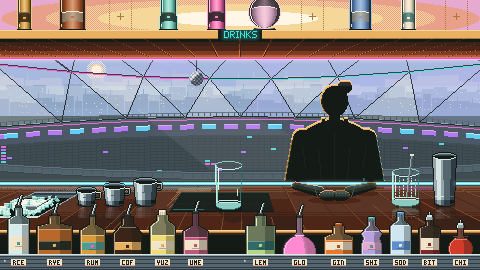
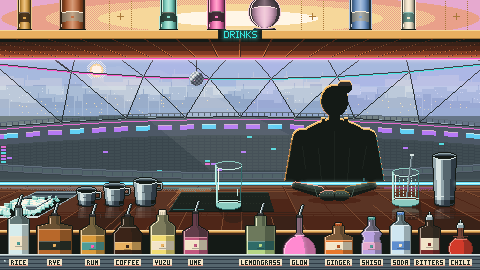
Pour lab: full names, hover cards, stir and shake, the serve line
- the rail's tape labels spell each drink's name in full words; the side
  panel and spectrograph use the bottles' full names, and the panel widens
  to fit the longest one
- pointing at a bottle shows its full name and what it tastes like; cups,
  tools, the ice well and the glass get cards that say what they do
- a lifted tool can pour into the other tool, so a drink can be stirred
  and then shaken (or the reverse); melted ice isn't counted twice, the
  log keeps both, and dash counts travel with the drink
- the fill line is now called the serve line in the game and explained:
  2.5 parts, the smallest drink a guest will take

Claude-Session: https://claude.ai/code/session_01F4MPXAHRjr7E7ERNW3qb1i

Changed region(s): [[0.5, 0.9481, 1.0, 1.0], [0.2188, 0.9481, 0.375, 1.0], [0.0, 0.9481, 0.0625, 1.0]]

diff --git a/tools/pourlab/pour.js b/tools/pourlab/pour.js
@@ -78,6 +78,24 @@ function wrap(s, maxW) {
   return out
 }
 
+// ---------------------------------------------------------------- what each bottle is (shown on hover)
+const CUP_NAME = { cup_quarter: "A quarter", cup_half: "A half", cup_one: "One" }
+const DESC = {
+  rice: "A clean, clear spirit. Strong, with a whisper of sweetness, so everything else shows through.",
+  rye: "Strong rye whiskey with a smoky, peppery edge and a little bitterness.",
+  rum: "Strong and gently sweet, with a faint hint of smoke.",
+  coffee: "Dark and rich: as sweet as it is bitter, with some kick and a roasted edge.",
+  yuzu: "Sharp, bright citrus. Very sour, with a fresh zing.",
+  ume: "Plum ferment: sweet and sour at once, with a slightly bitter finish.",
+  lemongrass: "Fresh, grassy and sweet, with a light tang. Pours slowly.",
+  glow: "Pure sweetness, thick and glowing. A little goes a long way. Pours slowly.",
+  ginger: "Hot ginger: spicy and a little sweet.",
+  shiso: "Fizzy and herbal: fresh, lightly bitter, a little sweet. Bubbles lift the fresh notes.",
+  soda: "Bubbles and no flavor. Makes a drink longer and livelier, and softens everything in it.",
+  bitters: "Very bitter, with a touch of spice. Dashes only: 0.05 parts each, six at most.",
+  chili: "Pure heat. Dashes only: 0.05 parts each, six at most.",
+}
+
 // ---------------------------------------------------------------- where things are
 const railOf = Object.fromEntries(L.rail.map((r) => [r.id, r]))
 const ingOf = Object.fromEntries(L.ingredients.map((g) => [g.id, g]))
@@ -158,7 +176,7 @@ function nextGuest() {
 }
 function serve() {
   if (guest.phase !== "asking") return
-  if (sim.total() < FILL_LINE - 0.05) { sim.say(`Fill the glass to the gold line first (${FILL_LINE} parts).`); return }
+  if (sim.total() < FILL_LINE - 0.05) { sim.say(`Fill the glass to the gold serve line first: ${FILL_LINE} parts is the smallest drink a guest will take.`); return }
   dropHeld()
   if (S.toolMode) sim.putToolDown()
   const t = sim.tasteOf(S.glass), s = score(guest.g, t)
@@ -246,6 +264,7 @@ function targetAt(x, y) {
     if (cup.state === "home" && inBox(x, y, cupBox(cup))) return { kind: "cup", id: cup.id }
     if (cup.state === "active" && !S.held && inBox(x, y, cupBox(cup))) return { kind: "activeCup", id: cup.id }
   }
+  if (!S.held && inBox(x, y, { x: glass.left, y: glass.top, w: glass.w, h: glass.h })) return { kind: "glass" }
   if (!S.held) for (const tool of Object.values(S.tools)) if (tool.state === "home" && y < L.RAIL_TOP - 2 && inBox(x, y, toolBoxOf(tool))) return { kind: "tool", id: tool.id }
   return null
 }
@@ -547,13 +566,13 @@ function contentRows(r, P, y) {
 const TOOL_NAME = { shaker: "THE SHAKER", mixing_glass: "THE STIRRING GLASS" }
 // the left panel shows the vessel you're working with: the glass, or the shaker or stirring glass in your hand
 function drawSidePanel() {
-  const P = { x: 6, y: 44, w: 152 }
   const tool = S.toolMode && S.tools[S.toolMode]
-  // measure first (draw nothing), then draw: the panel's height follows its contents
+  // measure first (draw nothing), then draw: the panel's size follows its contents (wide enough for the longest name)
   const r = tool ? sim.readout(tool.c) : sim.readout()
+  const P = { x: 6, y: 44, w: Math.max(160, ...r.rows.map((row) => 12 + textW(row.name) + 8 + textW(row.dashes ? "6 dashes" : "0.00") + 6)) }
   const hint = wrap(hintText(), P.w - 12)
   const rows = Math.max(1, r.rows.length)
-  const h = tool ? 14 + rows * 9 + 6 + 9 + 30 + 11 + 32 + hint.length * 9 + 4
+  const h = tool ? 14 + rows * 9 + 6 + 9 + 30 + 11 + 48 + hint.length * 9 + 4
     : 14 + rows * 9 + 6 + 9 + (r.ice ? 9 : 0) + 11 + (r.log.length ? 9 : 0) + 17 + hint.length * 9 + 4
   panel(P.x, P.y, P.w, h)
   let y = P.y + 5
@@ -567,6 +586,8 @@ function drawSidePanel() {
     const verb = tool.method === "shake" ? "Shaken" : "Stirred"
     text(tool.c.techT > 0.05 ? `${verb} ${tool.c.techT.toFixed(1)} s` : `Not ${verb.toLowerCase()} yet`, P.x + 6, y, S.pressing ? "#FFC94A" : SOFT); y += 11
     button("Strain into the glass", P.x + 6, y, () => sim.strainTool(), { w: P.w - 12, dim: tool.state !== "ready" }); y += 16
+    const other = tool.id === "shaker" ? "mixing_glass" : "shaker"
+    button(other === "shaker" ? "Pour into the shaker" : "Pour into the stirring glass", P.x + 6, y, () => sim.strainTool(other), { w: P.w - 12, dim: tool.state !== "ready", key: "intoOther" }); y += 16
     const bw = Math.floor((P.w - 12 - 8) / 3)
     button("Taste", P.x + 6, y, () => (spectro.open && spectro.src === tool.id ? closeSpectro() : openSpectro(tool.id)), { w: bw, on: spectro.open && spectro.src === tool.id })
     button("Put down", P.x + 10 + bw, y, () => sim.putToolDown(), { w: bw })
@@ -574,7 +595,7 @@ function drawSidePanel() {
   } else {
     if (r.ice) { text("Ice", P.x + 6, y, CREAM); text(`${r.ice} cube${r.ice > 1 ? "s" : ""}`, P.x + P.w - 6, y, CREAM, "right"); y += 9 }
     const diff = r.total - FILL_LINE
-    const status = r.full ? ["Full to the rim", "#FF8A7A"] : Math.abs(diff) <= 0.05 ? ["At the fill line", "#FFC94A"] : diff < 0 ? [`Fill line: ${(-diff).toFixed(2)} to go`, DIM] : [`${diff.toFixed(2)} over the fill line`, "#E9A08A"]
+    const status = r.full ? ["Full to the rim", "#FF8A7A"] : Math.abs(diff) <= 0.05 ? ["At the serve line: ready to serve", "#FFC94A"] : diff < 0 ? [`Serve line: ${(-diff).toFixed(2)} parts to go`, DIM] : ["Past the serve line: ready to serve", "#9CF0B0"]
     text(status[0], P.x + 6, y, status[1]); y += 11
     if (r.log.length) { text(logText(r.log), P.x + 6, y - 2, SOFT); y += 9 }
     const asking = guest.phase === "asking", has = r.total > 0.05, bw = Math.floor((P.w - 12 - 8) / 3)
@@ -587,13 +608,13 @@ function drawSidePanel() {
 function hintText() {
   if (guest.phase !== "asking") return "Click Next guest when you're ready for the next one."
   const tool = S.toolMode && S.tools[S.toolMode]
-  if (tool) return tool.method === "shake" ? "Hold anywhere to shake. About 10 seconds gets it cold. Then strain it into the glass." : "Hold anywhere to stir. Stirring is gentler: about 20 seconds. Then strain it into the glass."
+  if (tool) return tool.method === "shake" ? "Hold anywhere to shake: about 10 seconds gets it cold. To stir it too, pour it into the stirring glass." : "Hold anywhere to stir: about 20 seconds, gentler than shaking. To shake it too, pour it into the shaker."
   const cup = S.activeCup && S.cups[S.activeCup]
   if (S.held && S.held.kind === "dasher") return "Click to add a dash. Click the rail to put it back."
   if (S.held && S.held.kind === "cup") return "Hold to pour from the cup. It goes back once it's empty."
   if (S.held) return "Hold to pour, move to aim: into the glass, a cup, the shaker or the stirring glass. Click the rail to put it back."
   if (cup && cup.state === "active") return sim.volOf(cup.c) > 0.001 ? "Click the cup to pick it up and pour it." : "Pour a bottle into the cup. Click the empty cup to put it away."
-  return "Click a bottle to pick it up. Measure with a cup, shake or stir in the tools on the right. Click the ice well for ice."
+  return "Point at anything to see what it does. Click a bottle to pick it up."
 }
 
 // the guest's speech bubble, beside their head: what they want, then how they liked it
@@ -784,6 +805,29 @@ function drawBook() {
     y += 4
   })
 }
+// a small card above whatever the player points at: a title, then a few lines
+function tooltip(title, body, cx, bottom) {
+  const w = 150, lines = wrap(body, w - 10), h = 16 + lines.length * 9
+  const x = clamp(Math.round(cx - w / 2), 4, W - 4 - w), y = Math.max(4, bottom - h)
+  fill(x, y, w, h, "rgba(20,26,22,0.92)"); frame1(x, y, w, h, "rgba(255,201,74,0.75)")
+  text(title, x + 5, y + 4, "#FFC94A")
+  lines.forEach((l, i) => text(l, x + 5, y + 14 + i * 9, CREAM))
+}
+function drawTooltip() {
+  if (!hover || S.pressing || book.open) return
+  if (hover.kind === "bottle") { const b = bottleBox(hover.id); tooltip(ingOf[hover.id].name, DESC[hover.id], b.x + b.w / 2, b.y - 8) }
+  else if (hover.kind === "cup") { const cup = S.cups[hover.id]; tooltip(`${CUP_NAME[cup.id]} measuring cup`, `Holds exactly ${CUP_NAME[cup.id].toLowerCase()} part. Click to set it beside the glass, pour a bottle into it, then click it to pick it up and pour the measure.`, cup.x, cupBox(cup).y - 4) }
+  else if (hover.kind === "activeCup") tooltip("Measuring cup", sim.volOf(S.cups[hover.id].c) > 0.001 ? "Click to pick it up, then hold to pour it." : "Pour a bottle into it, or click to put it away.", S.cups[hover.id].x, cupBox(S.cups[hover.id]).y - 14)
+  else if (hover.kind === "tool") {
+    const tool = S.tools[hover.id], has = sim.volOf(tool.c) > 0.004
+    tooltip(tool.id === "shaker" ? "Shaker" : "Stirring glass", (tool.id === "shaker"
+      ? "Shaking chills a drink fast, waters it down more, and knocks out most of the fizz (add soda after). "
+      : "Stirring chills a drink gently and keeps it clear and fizzy. ") + (has ? "Click to pick it up." : "Pour bottles into it first, then click it."), tool.x, toolBoxOf(tool).y - 14)
+  }
+  else if (hover.kind === "ice") tooltip("Ice well", "Click to drop a cube into the glass (up to 4). Ice slowly melts into a drink built in the glass and chills it.", WELL_MID.x + 40, WELL[0][1] - 4)
+  else if (hover.kind === "glass" && guest.phase === "asking")
+    tooltip("The glass", `The gold mark is the serve line: ${FILL_LINE} parts, the smallest drink a guest will take. You can pour more, up to ${MAX_PARTS} parts. Ice raises the level a little but isn't counted.`, glass.cx, glass.top - 4)
+}
 function drawNotice() {
   if (!S.notice) return
   const lines = wrap(S.notice.text, 220), w = Math.max(...lines.map(textW)) + 12, h = lines.length * 9 + 6
@@ -812,6 +856,7 @@ function render() {
   if (!book.open) drawSpectro()
   drawStrip()
   drawBook()
+  drawTooltip()
   drawNotice()
 }
 

diff --git a/tools/pourlab/sim.js b/tools/pourlab/sim.js
@@ -27,11 +27,11 @@ export const INGREDIENT_RULES = {
   ginger: { flow: 1.6 }, shiso: { flow: 2.0 }, soda: { flow: 2.2 },
   bitters: { dash: true }, chili: { dash: true },
 }
-// Short names for the readout (the full names don't fit beside the glass).
+// Names for the readout: the bottles' full names, plus melted ice.
 export const SHORT = {
-  rice: "Clear Grid rice", rye: "Ashline rye", rum: "Neon Cane rum", coffee: "Night Shift coffee", yuzu: "Yuzu juice",
-  ume: "Ume ferment", lemongrass: "Lemongrass cordial", glow: "Glow syrup", ginger: "Ginger fire", shiso: "Shiso tonic",
-  soda: "Soda water", bitters: "Static bitters", chili: "Chili tincture", water: "Melted ice",
+  rice: "Clear Grid rice spirit", rye: "Ashline smoked rye", rum: "Neon Cane rum", coffee: "Night Shift coffee liqueur",
+  yuzu: "Yuzu juice", ume: "Ume ferment", lemongrass: "Lemongrass cordial", glow: "Glow syrup", ginger: "Ginger fire",
+  shiso: "Shiso tonic", soda: "Soda water", bitters: "Static bitters", chili: "Chili tincture", water: "Melted ice",
 }
 const isFizzy = (id) => FLAVOR[id].tags.includes("fizz")
 
@@ -52,7 +52,7 @@ export function rng(seed) { let s = seed >>> 0 || 1; return () => ((s = (s * 166
 // ---------------------------------------------------------------- what a vessel holds
 // parts (melted ice included as "water"), how cold it is (summed over its volume), how much of its fizz is left,
 // whether it was shaken, how many dashes of each, and a short log of how it was made
-const newContents = () => ({ parts: new Map(), chillVol: 0, fizzKeep: 0, shaken: false, dashes: new Map(), log: [], directVol: 0, buildWater: 0, techT: 0, techWater: 0 })
+const newContents = () => ({ parts: new Map(), chillVol: 0, fizzKeep: 0, shaken: false, dashes: new Map(), log: [], directVol: 0, buildWater: 0, techT: 0 })
 const volOf = (c) => { let s = 0; for (const v of c.parts.values()) s += v; return s }
 const fizzyOf = (c) => { let s = 0; for (const [id, v] of c.parts) if (isFizzy(id)) s += v; return s }
 function addTo(c, comp, vol, meta = {}) {
@@ -64,6 +64,7 @@ function addTo(c, comp, vol, meta = {}) {
   if (meta.shaken) c.shaken = true
   if (meta.direct) c.directVol += vol
   if (meta.log) for (const l of meta.log) if (!c.log.includes(l)) c.log.push(l)
+  if (meta.dashRate) for (const [id, n] of meta.dashRate) c.dashes.set(id, (c.dashes.get(id) || 0) + n * vol)   // dashes per part, so each drop brings its share
 }
 // take some volume out (a cup or tool pouring): returns its makeup and properties, and shrinks the rest to match
 function takeFrom(c, vol) {
@@ -71,9 +72,10 @@ function takeFrom(c, vol) {
   if (tot <= 0 || vol <= 0) return null
   const k = vol / tot, fz = fizzyOf(c)
   const out = { comp: new Map([...c.parts].map(([id, v]) => [id, v / tot])), vol,
-    meta: { chill: c.chillVol / tot, ret: fz > 0 ? c.fizzKeep / fz : 1, shaken: c.shaken, log: [...c.log] } }
+    meta: { chill: c.chillVol / tot, ret: fz > 0 ? c.fizzKeep / fz : 1, shaken: c.shaken, log: [...c.log], dashRate: new Map([...c.dashes].map(([id, n]) => [id, n / tot])) } }
   for (const [id, v] of c.parts) c.parts.set(id, v * (1 - k))
-  for (const key of ["chillVol", "fizzKeep", "directVol", "buildWater", "techWater"]) c[key] *= 1 - k
+  for (const [id, n] of c.dashes) c.dashes.set(id, n * (1 - k))     // dashes travel with the drink
+  for (const key of ["chillVol", "fizzKeep", "directVol", "buildWater"]) c[key] *= 1 - k
   return out
 }
 function clearContents(c) { Object.assign(c, newContents()) }
@@ -266,14 +268,18 @@ export function createSim(L, sizes) {
   }
   function moveTool(tool, state, to) { tool.state = state; tool.anim = 0; tool.from = { x: tool.x, y: tool.y }; tool.to = to }
   function putToolDown() { const tool = S.tools[S.toolMode]; if (!tool) return; S.toolMode = null; S.pressing = false; moveTool(tool, "down", { ...tool.home }) }
-  function strainTool() {
+  // strain into the glass, or into the other tool (stir, then shake: or the other way round)
+  function strainTool(into = "glass") {
     const tool = S.tools[S.toolMode]; if (!tool || tool.state !== "ready") return
+    const other = into !== "glass" && S.tools[into]
+    if (into !== "glass" && (!other || other === tool || other.state !== "home")) return
     S.toolMode = null; S.pressing = false
-    // its method goes in the drink's log
+    // its method goes in the drink's log, and travels with the drink
     if (tool.c.techT > 0.3) tool.c.log.push(`${tool.method === "shake" ? "Shaken" : "Stirred"} ${Math.round(tool.c.techT)} s`)
-    // place it so the turned lip ends up just above the glass's middle
-    const lip = lipOffset(tool, 1.9)
-    moveTool(tool, "strainUp", { x: glass.cx - 3 - lip.x, y: glass.top - 6 - lip.y })
+    tool.c.techT = 0
+    // place it so the turned lip ends up just above the middle of what it pours into
+    const lip = lipOffset(tool, 1.9), rim = other ? toolRim(other) : { cx: glass.cx, y: glass.top }
+    moveTool(tool, "strainUp", { x: rim.cx - 3 - lip.x, y: rim.y - 6 - lip.y })
   }
   function dumpTool() { const tool = S.tools[S.toolMode]; if (!tool) return; clearContents(tool.c); putToolDown() }
   // shaking or stirring while held: melted ice and cold build up with time, easing to a plateau
@@ -281,8 +287,10 @@ export function createSim(L, sizes) {
     const c = tool.c, M = METHOD[tool.method]
     c.techT += dt
     const ingVol = volOf(c) - (c.parts.get("water") || 0)
-    const D = M.dilution(c.techT), target = ingVol * D / (1 - D)
-    if (target > c.techWater) { addTo(c, new Map([["water", 1]]), target - c.techWater); c.techWater = target }
+    // melted ice only builds up to this method's curve: water already in the drink (from stirring before shaking,
+    // say) counts toward it, so a second technique adds only what it would add beyond the first
+    const D = M.dilution(c.techT), target = ingVol * D / (1 - D), water = c.parts.get("water") || 0
+    if (target > water) addTo(c, new Map([["water", 1]]), target - water)
     const v = volOf(c); c.chillVol = Math.max(c.chillVol, v * M.chill(c.techT))
     if (tool.method === "shake") {
       c.shaken = true
@@ -539,7 +547,7 @@ export function createSim(L, sizes) {
   // ---------------------------------------------------------------- readouts
   function readout(c = S.glass) {
     const rows = []
-    for (const [id, v] of c.parts) if (v > 0.004) rows.push({ id, name: SHORT[id], parts: v, dashes: c.dashes.get(id) || 0 })
+    for (const [id, v] of c.parts) if (v > 0.004) rows.push({ id, name: SHORT[id], parts: v, dashes: Math.round(c.dashes.get(id) || 0) })
     rows.sort((a, b) => (a.id === "water") - (b.id === "water"))
     const tot = volOf(c)
     return { rows, total: tot, ice: c === S.glass ? iceIn() : 0, full: c === S.glass && tot + iceDisp() >= MAX_PARTS - 0.01, fillLine: FILL_LINE,

diff --git a/tools/pourlab/art/neon_dome.px.js b/tools/pourlab/art/neon_dome.px.js
@@ -754,17 +754,20 @@ const RAIL_X = (() => {
 const railX = (k) => RAIL_X[k]
 const POUR_X = Math.round((RAIL_X[GAP_AFTER] + RAIL_X[GAP_AFTER + 1]) / 2)
 function railBack(c) { c.rect(0, NEAR + 4, W, H - NEAR - 4, "0"); c.hline(0, NEAR + 4, W, "K") }
+const RAIL_WORD = { rice: "RICE", rye: "RYE", rum: "RUM", coffee: "COFFEE", yuzu: "YUZU", ume: "UME", lemongrass: "LEMONGRASS",
+  glow: "GLOW", ginger: "GINGER", shiso: "SHISO", soda: "SODA", bitters: "BITTERS", chili: "CHILI" }
 function railFront(c) {
   c.rect(0, RAIL_TOP, W, H - RAIL_TOP, "E")
   c.hline(0, RAIL_TOP, W, "F"); c.hline(0, RAIL_TOP + 1, W, "f"); c.hline(0, RAIL_TOP + 2, W, "e")
   for (let y = RAIL_TOP + 5; y < H - 1; y += 4) c.hline(0, y, W, "e")
   c.hline(0, H - 1, W, "e")
   for (let x = 4; x < W; x += 120) { c.rect(x, RAIL_TOP + 6, 2, 2, "f"); c.px(x, RAIL_TOP + 6, "F") }
-  // tape labels so the everyday bottles read at a glance
+  // tape labels so the everyday bottles read at a glance: each drink's plain name, whole (the full brand name
+  // shows when the player points at the bottle)
   INGREDIENTS.forEach((ing, k) => {
-    const x = railX(k)
-    c.rect(x - 7, RAIL_TOP + 5, 15, 7, "c"); c.hline(x - 7, RAIL_TOP + 11, 15, "p")
-    c.text(x - 5, RAIL_TOP + 6, ing.tag, "1")
+    const x = railX(k), word = RAIL_WORD[ing.id], w = word.length * 4 - 1, left = Math.round(x - w / 2)
+    c.rect(left - 2, RAIL_TOP + 5, w + 4, 7, "c"); c.hline(left - 2, RAIL_TOP + 11, w + 4, "p")
+    c.text(left, RAIL_TOP + 6, word, "1")
   })
 }
 

diff --git a/tools/pourlab/README.md b/tools/pourlab/README.md
@@ -12,6 +12,8 @@ with `fetch`, so opening the file directly won't work):
 
 **Pouring**
 
+- **Point at anything** (a bottle, cup, tool, the ice well, the glass) to see a card saying what it is and does.
+  The rail's tape labels name each drink; the card and the panel give the full name.
 - **Click a bottle** on the rail to pick it up. It follows the pointer, held by its spout.
 - **Hold** anywhere to tilt it and pour; let go to stop (a few last drops fall). Move while pouring to aim.
   Flow ramps up with the tilt, and each bottle pours at its own rate (syrups slower, soda faster).
@@ -30,6 +32,9 @@ with `fetch`, so opening the file directly won't work):
   the panel's gauges show it getting colder and more diluted, quickly (about 10 seconds is right). Shaking knocks
   most of the fizz out, so add soda after. Then **Strain into the glass**.
 - **Stir:** the same with the stirring glass, slower and gentler (about 20 seconds), and it keeps the fizz.
+- **Both:** a lifted tool can pour into the other one, so you can stir and then shake (or the other way round).
+  Melted ice isn't counted twice: the second technique only adds water beyond what the first already put in.
+  The drink remembers both ("Stirred 20 s, shaken 3 s").
 - While a tool is lifted you can also **Taste** it, **Put down** to keep it for later, or **Dump** it out.
 
 **The guest**
@@ -40,7 +45,8 @@ with `fetch`, so opening the file directly won't work):
   sweet), a glowing piece is what got boosted (strength carries heat, bubbles lift freshness). Depth, Brightness and
   Toasted grow from two notes being close to each other (the bracket on the left shows which). Complexity and
   Balance are dials. Point at a bar to read what made it.
-- **Serve** (once the glass reaches the gold line, 2.5 parts) slides the glass to the guest. They react in the same
+- **Serve** (once the glass reaches the gold serve line: 2.5 parts, the smallest drink a guest will take; the glass
+  holds up to 8) slides the glass to the guest. They react in the same
   vibe words, and the spectrograph opens with their arrows: gold for more, pink for less, green for spot on.
 - **Phrasebook** lists every phrase the guests use; serving someone teaches you the ones they said and what range
   of the note each stands for. It's saved in the browser.
